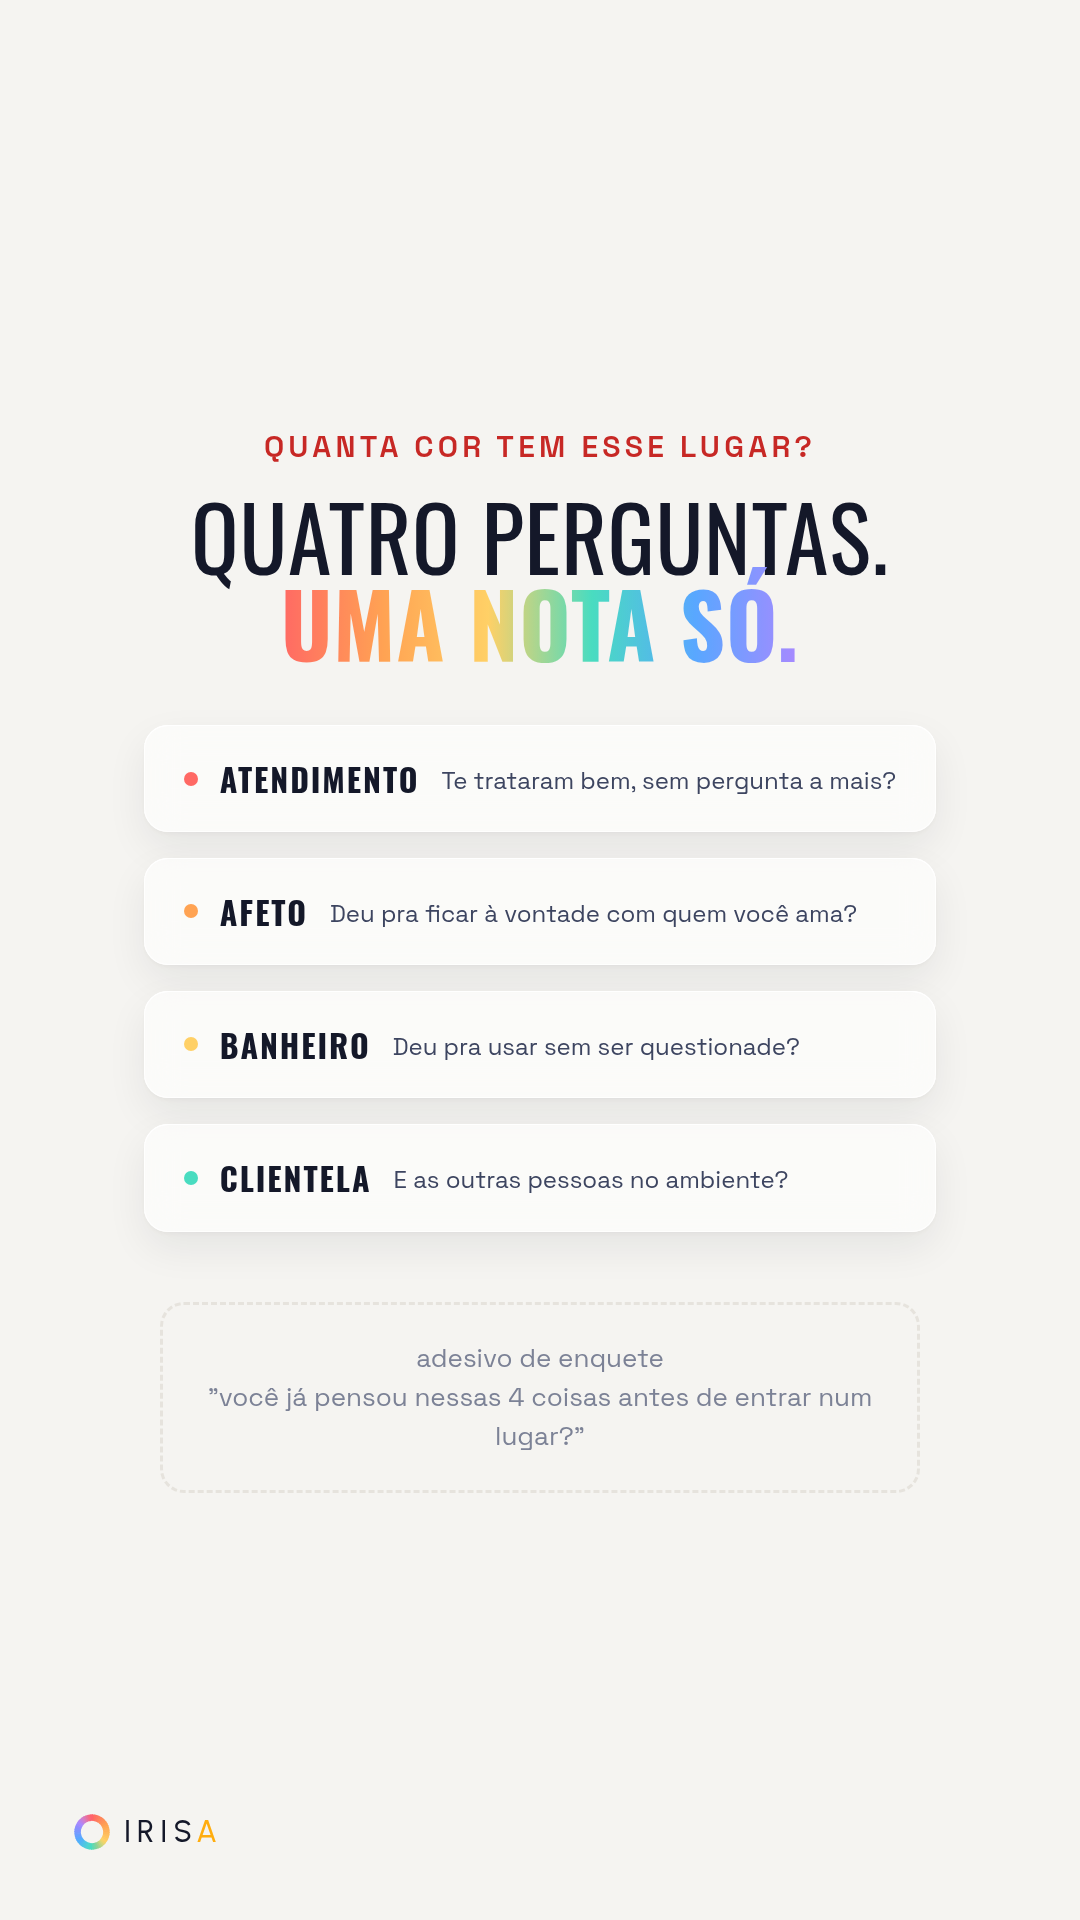
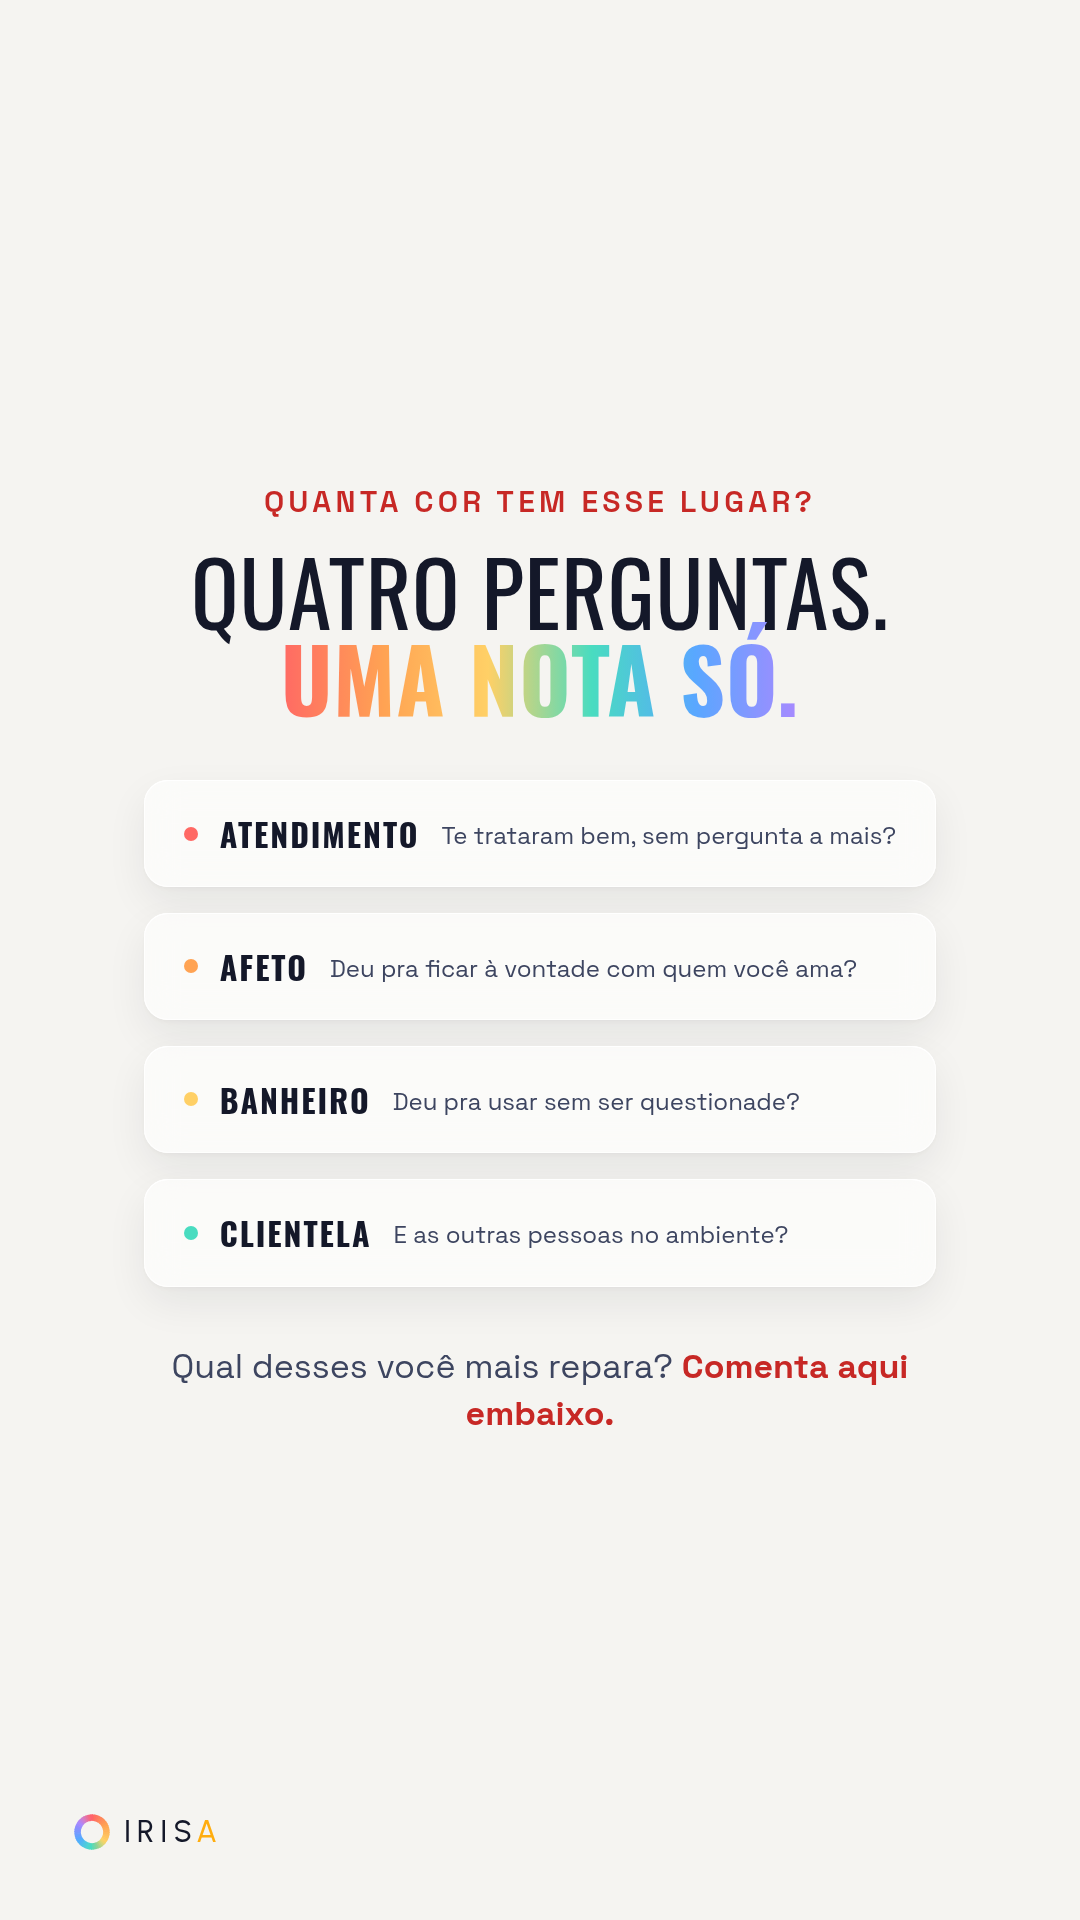
story-eixos: pergunta na própria arte, sem depender de adesivo

diff --git a/docs/story-eixos.html b/docs/story-eixos.html
@@ -52,7 +52,7 @@ body{font-family:var(--body);color:var(--ink);display:flex;flex-direction:column
       <div><i style="background:var(--turq)"></i><b>Clientela</b><span>E as outras pessoas no ambiente?</span></div>
     </div>
   </div>
-  <div class="zone">adesivo de enquete<br>"você já pensou nessas 4 coisas antes de entrar num lugar?"</div>
+  <p class="body c" style="margin-top:56px;font-size:34px">Qual desses você mais repara? <b style="color:var(--coralInk)">Comenta aqui embaixo.</b></p>
   <div class="brand"><svg class="mark" viewBox="0 0 100 100"><use href="#radarmin"></use></svg><span>Iris<b>a</b></span></div>
 </section>
 </body></html>
